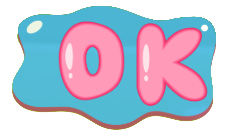
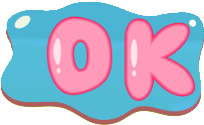
updated intro layout and added credits page

diff --git a/FilipinoFolkloreApp/MainPage.xaml b/FilipinoFolkloreApp/MainPage.xaml
@@ -6,74 +6,90 @@
     Shell.NavBarIsVisible="False"
     BackgroundImageSource="login_bg.jpg">
 
-    
-        <Grid VerticalOptions="Center" HorizontalOptions="Center">
-            <Grid.RowDefinitions>
-                <RowDefinition Height="Auto" />
-                <RowDefinition Height="Auto" />
-            </Grid.RowDefinitions>
 
-            <Entry x:Name="OutputEntry"
+    <Grid VerticalOptions="Center" HorizontalOptions="Center">
+        <Grid.RowDefinitions>
+            <RowDefinition Height="Auto" />
+            <RowDefinition Height="Auto" />
+            <RowDefinition Height="Auto" />
+        </Grid.RowDefinitions>
+
+        <Entry x:Name="OutputEntry"
                Grid.Row="0"
                FontSize="30"
-               Placeholder="Type here..."
-               TextColor="PaleVioletRed"
-               IsReadOnly="True" />
+               Placeholder="Maglagay ng pangalan. . ."
+               PlaceholderColor="PaleVioletRed"
+               TextColor="DeepPink"
+               FontAttributes="Bold"
+               IsReadOnly="True"
+               WidthRequest="510"
+               HorizontalTextAlignment="Center"
+               Margin="0,0,0,10">
+            
+        </Entry>
 
-            <Grid Grid.Row="1" x:Name="KeyboardGrid" VerticalOptions="Center" HorizontalOptions="Center">
-                <Grid.RowDefinitions>
-                    <RowDefinition Height="60"/>
-                    <RowDefinition Height="60"/>
-                    <RowDefinition Height="60"/>
-                    <RowDefinition Height="60"/>
-                </Grid.RowDefinitions>
-                <Grid.ColumnDefinitions>
-                    <ColumnDefinition Width="70"/>
-                    <ColumnDefinition Width="70"/>
-                    <ColumnDefinition Width="70"/>
-                    <ColumnDefinition Width="70"/>
-                    <ColumnDefinition Width="70"/>
-                    <ColumnDefinition Width="70"/>
-                    <ColumnDefinition Width="70"/>
-                    <ColumnDefinition Width="70"/>
-                    <ColumnDefinition Width="70"/>
-                </Grid.ColumnDefinitions>
+        <Label Grid.Row="1"
+               Text="PANGALAN"
+               TextColor="DeepPink"
+               FontSize="30"
+               FontAttributes="Bold"
+               HorizontalOptions="Center"
+               Margin="0,0,0,10" />
 
-                <!-- Row 0 -->
-                <ImageButton Source="keys/a.png" Grid.Row="0" Grid.Column="0" Clicked="Letter_Clicked" CommandParameter="a" Aspect="AspectFit" WidthRequest="60" />
-                <ImageButton Source="keys/b.png" Grid.Row="0" Grid.Column="1" Clicked="Letter_Clicked" CommandParameter="b" Aspect="AspectFit" WidthRequest="60" />
-                <ImageButton Source="keys/c.png" Grid.Row="0" Grid.Column="2" Clicked="Letter_Clicked" CommandParameter="c" Aspect="AspectFit" WidthRequest="60" />
-                <ImageButton Source="keys/d.png" Grid.Row="0" Grid.Column="3" Clicked="Letter_Clicked" CommandParameter="d" Aspect="AspectFit" WidthRequest="60" />
-                <ImageButton Source="keys/e.png" Grid.Row="0" Grid.Column="4" Clicked="Letter_Clicked" CommandParameter="e" Aspect="AspectFit" WidthRequest="60" />
-                <ImageButton Source="keys/f.png" Grid.Row="0" Grid.Column="5" Clicked="Letter_Clicked" CommandParameter="f" Aspect="AspectFit" WidthRequest="60" />
-                <ImageButton Source="keys/g.png" Grid.Row="0" Grid.Column="6" Clicked="Letter_Clicked" CommandParameter="g" Aspect="AspectFit" WidthRequest="60" />
+        <Grid Grid.Row="2" x:Name="KeyboardGrid" VerticalOptions="Center" HorizontalOptions="Center" WidthRequest="510">
+            <Grid.RowDefinitions>
+                <RowDefinition Height="60"/>
+                <RowDefinition Height="60"/>
+                <RowDefinition Height="60"/>
+                <RowDefinition Height="60"/>
+            </Grid.RowDefinitions>
+            <Grid.ColumnDefinitions>
+                <ColumnDefinition Width="70"/>
+                <ColumnDefinition Width="70"/>
+                <ColumnDefinition Width="70"/>
+                <ColumnDefinition Width="70"/>
+                <ColumnDefinition Width="70"/>
+                <ColumnDefinition Width="70"/>
+                <ColumnDefinition Width="70"/>
+                <ColumnDefinition Width="*"/>
+            </Grid.ColumnDefinitions>
 
-                <!-- Row 1 -->
-                <ImageButton Source="keys/h.png" Grid.Row="1" Grid.Column="0" Clicked="Letter_Clicked" CommandParameter="h" Aspect="AspectFit" WidthRequest="60" />
-                <ImageButton Source="keys/i.png" Grid.Row="1" Grid.Column="1" Clicked="Letter_Clicked" CommandParameter="i" Aspect="AspectFit" WidthRequest="60" />
-                <ImageButton Source="keys/j.png" Grid.Row="1" Grid.Column="2" Clicked="Letter_Clicked" CommandParameter="j" Aspect="AspectFit" WidthRequest="60" />
-                <ImageButton Source="keys/k.png" Grid.Row="1" Grid.Column="3" Clicked="Letter_Clicked" CommandParameter="k" Aspect="AspectFit" WidthRequest="60" />
-                <ImageButton Source="keys/l.png" Grid.Row="1" Grid.Column="4" Clicked="Letter_Clicked" CommandParameter="l" Aspect="AspectFit" WidthRequest="60" />
-                <ImageButton Source="keys/m.png" Grid.Row="1" Grid.Column="5" Clicked="Letter_Clicked" CommandParameter="m" Aspect="AspectFit" WidthRequest="60" />
-                <ImageButton Source="keys/n.png" Grid.Row="1" Grid.Column="6" Clicked="Letter_Clicked" CommandParameter="n" Aspect="AspectFit" WidthRequest="60" />
+            <!-- Row 0 -->
+            <ImageButton Source="keys/a.png" Grid.Row="0" Grid.Column="0" Clicked="Letter_Clicked" CommandParameter="a" Aspect="AspectFit" WidthRequest="60" />
+            <ImageButton Source="keys/b.png" Grid.Row="0" Grid.Column="1" Clicked="Letter_Clicked" CommandParameter="b" Aspect="AspectFit" WidthRequest="60" />
+            <ImageButton Source="keys/c.png" Grid.Row="0" Grid.Column="2" Clicked="Letter_Clicked" CommandParameter="c" Aspect="AspectFit" WidthRequest="60" />
+            <ImageButton Source="keys/d.png" Grid.Row="0" Grid.Column="3" Clicked="Letter_Clicked" CommandParameter="d" Aspect="AspectFit" WidthRequest="60" />
+            <ImageButton Source="keys/e.png" Grid.Row="0" Grid.Column="4" Clicked="Letter_Clicked" CommandParameter="e" Aspect="AspectFit" WidthRequest="60" />
+            <ImageButton Source="keys/f.png" Grid.Row="0" Grid.Column="5" Clicked="Letter_Clicked" CommandParameter="f" Aspect="AspectFit" WidthRequest="60" />
+            <ImageButton Source="keys/g.png" Grid.Row="0" Grid.Column="6" Clicked="Letter_Clicked" CommandParameter="g" Aspect="AspectFit" WidthRequest="60" />
 
-                <!-- Row 2 -->
-                <ImageButton Source="keys/o.png" Grid.Row="2" Grid.Column="0" Clicked="Letter_Clicked" CommandParameter="o" Aspect="AspectFit" WidthRequest="60" />
-                <ImageButton Source="keys/p.png" Grid.Row="2" Grid.Column="1" Clicked="Letter_Clicked" CommandParameter="p" Aspect="AspectFit" WidthRequest="60" />
-                <ImageButton Source="keys/q.png" Grid.Row="2" Grid.Column="2" Clicked="Letter_Clicked" CommandParameter="q" Aspect="AspectFit" WidthRequest="60" />
-                <ImageButton Source="keys/r.png" Grid.Row="2" Grid.Column="3" Clicked="Letter_Clicked" CommandParameter="r" Aspect="AspectFit" WidthRequest="60" />
-                <ImageButton Source="keys/s.png" Grid.Row="2" Grid.Column="4" Clicked="Letter_Clicked" CommandParameter="s" Aspect="AspectFit" WidthRequest="60" />
-                <ImageButton Source="keys/t.png" Grid.Row="2" Grid.Column="5" Clicked="Letter_Clicked" CommandParameter="t" Aspect="AspectFit" WidthRequest="60" />
-                <ImageButton Source="keys/u.png" Grid.Row="2" Grid.Column="6" Clicked="Letter_Clicked" CommandParameter="u" Aspect="AspectFit" WidthRequest="60" />
+            <!-- Row 1 -->
+            <ImageButton Source="keys/h.png" Grid.Row="1" Grid.Column="0" Clicked="Letter_Clicked" CommandParameter="h" Aspect="AspectFit" WidthRequest="60" />
+            <ImageButton Source="keys/i.png" Grid.Row="1" Grid.Column="1" Clicked="Letter_Clicked" CommandParameter="i" Aspect="AspectFit" WidthRequest="60" />
+            <ImageButton Source="keys/j.png" Grid.Row="1" Grid.Column="2" Clicked="Letter_Clicked" CommandParameter="j" Aspect="AspectFit" WidthRequest="60" />
+            <ImageButton Source="keys/k.png" Grid.Row="1" Grid.Column="3" Clicked="Letter_Clicked" CommandParameter="k" Aspect="AspectFit" WidthRequest="60" />
+            <ImageButton Source="keys/l.png" Grid.Row="1" Grid.Column="4" Clicked="Letter_Clicked" CommandParameter="l" Aspect="AspectFit" WidthRequest="60" />
+            <ImageButton Source="keys/m.png" Grid.Row="1" Grid.Column="5" Clicked="Letter_Clicked" CommandParameter="m" Aspect="AspectFit" WidthRequest="60" />
+            <ImageButton Source="keys/n.png" Grid.Row="1" Grid.Column="6" Clicked="Letter_Clicked" CommandParameter="n" Aspect="AspectFit" WidthRequest="60" />
 
-                <!-- Row 3 -->
-                <ImageButton Source="keys/v.png" Grid.Row="3" Grid.Column="0" Clicked="Letter_Clicked" CommandParameter="v" Aspect="AspectFit" WidthRequest="60" />
-                <ImageButton Source="keys/w.png" Grid.Row="3" Grid.Column="1" Clicked="Letter_Clicked" CommandParameter="w" Aspect="AspectFit" WidthRequest="60" />
-                <ImageButton Source="keys/x.png" Grid.Row="3" Grid.Column="2" Clicked="Letter_Clicked" CommandParameter="x" Aspect="AspectFit" WidthRequest="60" />
-                <ImageButton Source="keys/y.png" Grid.Row="3" Grid.Column="3" Clicked="Letter_Clicked" CommandParameter="y" Aspect="AspectFit" WidthRequest="60" />
-                <ImageButton Source="keys/z.png" Grid.Row="3" Grid.Column="4" Clicked="Letter_Clicked" CommandParameter="z" Aspect="AspectFit" WidthRequest="60" />
-                <ImageButton Source="keys/ok.png" Grid.Row="3" Grid.Column="5" Grid.ColumnSpan="2" Clicked="Letter_Clicked" CommandParameter="enter" Aspect="AspectFit" WidthRequest="120" />
-            </Grid>
+            <!-- Row 2 -->
+            <ImageButton Source="keys/o.png" Grid.Row="2" Grid.Column="0" Clicked="Letter_Clicked" CommandParameter="o" Aspect="AspectFit" WidthRequest="60" />
+            <ImageButton Source="keys/p.png" Grid.Row="2" Grid.Column="1" Clicked="Letter_Clicked" CommandParameter="p" Aspect="AspectFit" WidthRequest="60" />
+            <ImageButton Source="keys/q.png" Grid.Row="2" Grid.Column="2" Clicked="Letter_Clicked" CommandParameter="q" Aspect="AspectFit" WidthRequest="60" />
+            <ImageButton Source="keys/r.png" Grid.Row="2" Grid.Column="3" Clicked="Letter_Clicked" CommandParameter="r" Aspect="AspectFit" WidthRequest="60" />
+            <ImageButton Source="keys/s.png" Grid.Row="2" Grid.Column="4" Clicked="Letter_Clicked" CommandParameter="s" Aspect="AspectFit" WidthRequest="60" />
+            <ImageButton Source="keys/t.png" Grid.Row="2" Grid.Column="5" Clicked="Letter_Clicked" CommandParameter="t" Aspect="AspectFit" WidthRequest="60" />
+            <ImageButton Source="keys/u.png" Grid.Row="2" Grid.Column="6" Clicked="Letter_Clicked" CommandParameter="u" Aspect="AspectFit" WidthRequest="60" />
+
+            <!-- Row 3 -->
+            <ImageButton Source="keys/v.png" Grid.Row="3" Grid.Column="0" Clicked="Letter_Clicked" CommandParameter="v" Aspect="AspectFit" WidthRequest="60" />
+            <ImageButton Source="keys/w.png" Grid.Row="3" Grid.Column="1" Clicked="Letter_Clicked" CommandParameter="w" Aspect="AspectFit" WidthRequest="60" />
+            <ImageButton Source="keys/x.png" Grid.Row="3" Grid.Column="2" Clicked="Letter_Clicked" CommandParameter="x" Aspect="AspectFit" WidthRequest="60" />
+            <ImageButton Source="keys/y.png" Grid.Row="3" Grid.Column="3" Clicked="Letter_Clicked" CommandParameter="y" Aspect="AspectFit" WidthRequest="60" />
+            <ImageButton Source="keys/z.png" Grid.Row="3" Grid.Column="4" Clicked="Letter_Clicked" CommandParameter="z" Aspect="AspectFit" WidthRequest="60" />
+            <ImageButton Source="keys/erase.png" Grid.Row="3" Grid.Column="5" Clicked="Letter_Clicked" CommandParameter="erase" Aspect="AspectFit" WidthRequest="60" />
+            <ImageButton Source="keys/ok.png" Grid.Row="3" Grid.Column="6" Grid.ColumnSpan="2" Clicked="Letter_Clicked" CommandParameter="enter" Aspect="AspectFit" WidthRequest="90" HorizontalOptions="Start" />
         </Grid>
-    
+    </Grid>
+
 </ContentPage>

diff --git a/FilipinoFolkloreApp/Views/CreditsPage.xaml b/FilipinoFolkloreApp/Views/CreditsPage.xaml
@@ -1,0 +1,110 @@
+<?xml version="1.0" encoding="utf-8" ?>
+<ContentPage x:Class="FilipinoFolkloreApp.Views.CreditsPage"
+             xmlns="http://schemas.microsoft.com/dotnet/2021/maui"
+             xmlns:x="http://schemas.microsoft.com/winfx/2009/xaml"
+             BackgroundImageSource="image4.jpg"
+             Shell.NavBarIsVisible="False">
+    <Grid RowDefinitions="Auto,*"
+          ColumnDefinitions="*"
+          Padding="20">
+
+        <!-- Back Button Row - Upper Right -->
+        <StackLayout Grid.Row="0"
+                     Spacing="8"
+                     VerticalOptions="Start"
+                     Orientation="Horizontal"
+                     HorizontalOptions="End">
+
+            <Image Source="prev.png"
+                   WidthRequest="48"
+                   HeightRequest="48"
+                   Aspect="AspectFit"
+                   Margin="0">
+                <Image.GestureRecognizers>
+                    <TapGestureRecognizer Tapped="OnBackClicked"/>
+                </Image.GestureRecognizers>
+            </Image>
+
+        </StackLayout>
+
+        <!-- Credits Frame -->
+        <Frame Grid.Row="1"
+               CornerRadius="20"
+               BackgroundColor="#E6FFFFFF"
+               Padding="30"
+               HasShadow="True"
+               HorizontalOptions="Center"
+               VerticalOptions="Start"
+               WidthRequest="500"
+               Margin="0,20,0,0">
+            <Frame.Shadow>
+                <Shadow Brush="Black" Offset="0,4" Radius="20" Opacity="0.3"/>
+            </Frame.Shadow>
+
+            <ScrollView>
+                <VerticalStackLayout Spacing="8">
+
+                    <!-- App Icon -->
+                    <Image Source="appiconforcredits.png"
+                           WidthRequest="240"
+                           HeightRequest="120"
+                           HorizontalOptions="Center"
+                           Margin="0,0,0,10"/>
+
+                    <!-- Research and Paperworks Section -->
+                    <VerticalStackLayout Spacing="8">
+                        <Label Text="RESEARCH &amp; PAPERWORKS"
+                               FontSize="18"
+                               FontAttributes="Bold"
+                               TextColor="DeepPink"
+                               HorizontalOptions="Center"/>
+                        <Label Text="Diana Jonna C. Malasaga"
+                               FontSize="16"
+                               FontAttributes="Bold"
+                               TextColor="#333"
+                               HorizontalOptions="Center"/>
+                        <Label Text="Patrica Tabua"
+                               FontAttributes="Bold"
+                               FontSize="16"
+                               TextColor="#333"
+                               HorizontalOptions="Center"/>
+                    </VerticalStackLayout>
+
+                    <!-- Prototype & Design Section -->
+                    <VerticalStackLayout Spacing="8">
+                        <Label Text="PROTOTYPE &amp; DESIGN"
+                               FontSize="18"
+                               FontAttributes="Bold"
+                               TextColor="DeepPink"
+                               HorizontalOptions="Center"/>
+                        <Label Text="Nichol Angeline Alim"
+                               FontSize="16"
+                               FontAttributes="Bold"
+                               TextColor="#333"
+                               HorizontalOptions="Center"/>
+                    </VerticalStackLayout>
+
+                    <!-- Stories & Game Development Section -->
+                    <VerticalStackLayout Spacing="8">
+                        <Label Text="STORIES &amp; GAME DEVELOPMENT"
+                               FontSize="18"
+                               FontAttributes="Bold"
+                               TextColor="DeepPink"
+                               HorizontalOptions="Center"/>
+                        <Label Text="Cliff John Sadagnot"
+                               FontSize="16"
+                               FontAttributes="Bold"
+                               TextColor="#333"
+                               HorizontalOptions="Center"/>
+                        <Label Text="Charles Vincent Lising"
+                               FontSize="16"
+                               FontAttributes="Bold"
+                               TextColor="#333"
+                               HorizontalOptions="Center"/>
+                    </VerticalStackLayout>
+
+                </VerticalStackLayout>
+            </ScrollView>
+        </Frame>
+    </Grid>
+</ContentPage>

diff --git a/FilipinoFolkloreApp/Views/Home/IndexPage.xaml b/FilipinoFolkloreApp/Views/Home/IndexPage.xaml
@@ -145,7 +145,7 @@ BackgroundColor="White" HorizontalOptions="Start">
 
                 <!-- Settings Modal Content - Expanded for Volume Slider -->
                 <Frame WidthRequest="400"
-                HeightRequest="260"
+                HeightRequest="320"
                 CornerRadius="20"
                 BackgroundColor="#E6FFFFFF"
                 Padding="25"
@@ -162,7 +162,7 @@ BackgroundColor="White" HorizontalOptions="Start">
                     <Grid RowDefinitions="Auto,*">
                         <!-- Header -->
                         <Grid Grid.Row="0" ColumnDefinitions="*,Auto" Margin="0,0,0,15">
-                            <Label Text="SETTINGS"
+                            <Label Text="MGA SETTING"
                             FontSize="24"
                             FontAttributes="Bold"
                             TextColor="#CC3333"
@@ -182,7 +182,7 @@ BackgroundColor="White" HorizontalOptions="Start">
                                 <!-- Background Music Volume Slider -->
                                 <VerticalStackLayout Spacing="8">
                                     <Grid ColumnDefinitions="*,Auto" ColumnSpacing="10">
-                                        <Label Text="Background Music Volume"
+                                        <Label Text="Lakas ng Musika sa Background"
                     FontSize="16"
                     FontAttributes="Bold"
                     TextColor="#333"
@@ -209,7 +209,7 @@ BackgroundColor="White" HorizontalOptions="Start">
                                 <!-- Narrator Voice Volume Slider -->
                                 <VerticalStackLayout Spacing="8">
                                     <Grid ColumnDefinitions="*,Auto" ColumnSpacing="10">
-                                        <Label Text="Narrator Voice Volume"
+                                        <Label Text="Lakas ng Tinig ng Narrator"
                     FontSize="16"
                     FontAttributes="Bold"
                     TextColor="#333"
@@ -233,6 +233,25 @@ BackgroundColor="White" HorizontalOptions="Start">
                  ValueChanged="OnNarratorVolumeChanged"/>
                                 </VerticalStackLayout>
 
+                                <!-- Kredits Button -->
+                                <Button Text="KREDITS"
+                                        BackgroundColor="White"
+                                        TextColor="Red"
+                                        FontAttributes="Bold"
+                                        FontSize="16"
+                                        BorderColor="Black"
+                                        BorderWidth="2"
+                                        CornerRadius="10"
+                                        HeightRequest="40"
+                                        WidthRequest="120"
+                                        HorizontalOptions="Center"
+                                        Margin="0,10,0,0"
+                                        Clicked="OnKreditsClicked">
+                                    <Button.Shadow>
+                                        <Shadow Brush="Pink" Offset="4,4" Radius="8" Opacity="0.6"/>
+                                    </Button.Shadow>
+                                </Button>
+
                             </VerticalStackLayout>
                         </ScrollView>
                     </Grid>
@@ -240,5 +259,5 @@ BackgroundColor="White" HorizontalOptions="Start">
             </Grid>
         </Grid>
     </Grid>
-    
+
 </ContentPage>

diff --git a/FilipinoFolkloreApp/Views/MedalDetailPage.xaml b/FilipinoFolkloreApp/Views/MedalDetailPage.xaml
@@ -104,7 +104,7 @@
             <Grid RowDefinitions="Auto,*">
                 <!-- Header -->
                 <Grid Grid.Row="0" ColumnDefinitions="*,Auto">
-                    <Label Text="Medal Details"
+                    <Label Text="Detalye ng Medalya"
                            FontSize="24"
                            FontAttributes="Bold"
                            TextColor="#333"

diff --git a/FilipinoFolkloreApp/Views/Home/IndexPage.xaml.cs b/FilipinoFolkloreApp/Views/Home/IndexPage.xaml.cs
@@ -114,6 +114,14 @@ public partial class IndexPage : ContentPage
             app.SetBackgroundMusicVolume(volumeValue);
         }
     }
+    private async void OnKreditsClicked(object sender, EventArgs e)
+    {
+        // Close the settings modal first
+        SettingsModalOverlay.IsVisible = false;
+
+        // Navigate to Credits page
+        await Navigation.PushAsync(new CreditsPage());
+    }
     private void OnVolumeChanged(object sender, ValueChangedEventArgs e)
     {
         // Update the volume label

diff --git a/FilipinoFolkloreApp/MainPage.xaml.cs b/FilipinoFolkloreApp/MainPage.xaml.cs
@@ -57,9 +57,13 @@ namespace FilipinoFolkloreApp
                         Navigation.RemovePage(this);
                     }
                 }
+                else if (letter == "erase")
+                {
+                    OutputEntry.Text = string.Empty;
+                }
                 else
                 {
-                    OutputEntry.Text += letter;
+                    OutputEntry.Text += letter.ToUpper();
                 }
             }
         }

diff --git a/FilipinoFolkloreApp/Views/CreditsPage.xaml.cs b/FilipinoFolkloreApp/Views/CreditsPage.xaml.cs
@@ -1,0 +1,15 @@
+namespace FilipinoFolkloreApp.Views;
+
+public partial class CreditsPage : ContentPage
+{
+    public CreditsPage()
+    {
+        InitializeComponent();
+        NavigationPage.SetHasNavigationBar(this, false);
+    }
+
+    private async void OnBackClicked(object? sender, TappedEventArgs e)
+    {
+        await Navigation.PopAsync();
+    }
+}
